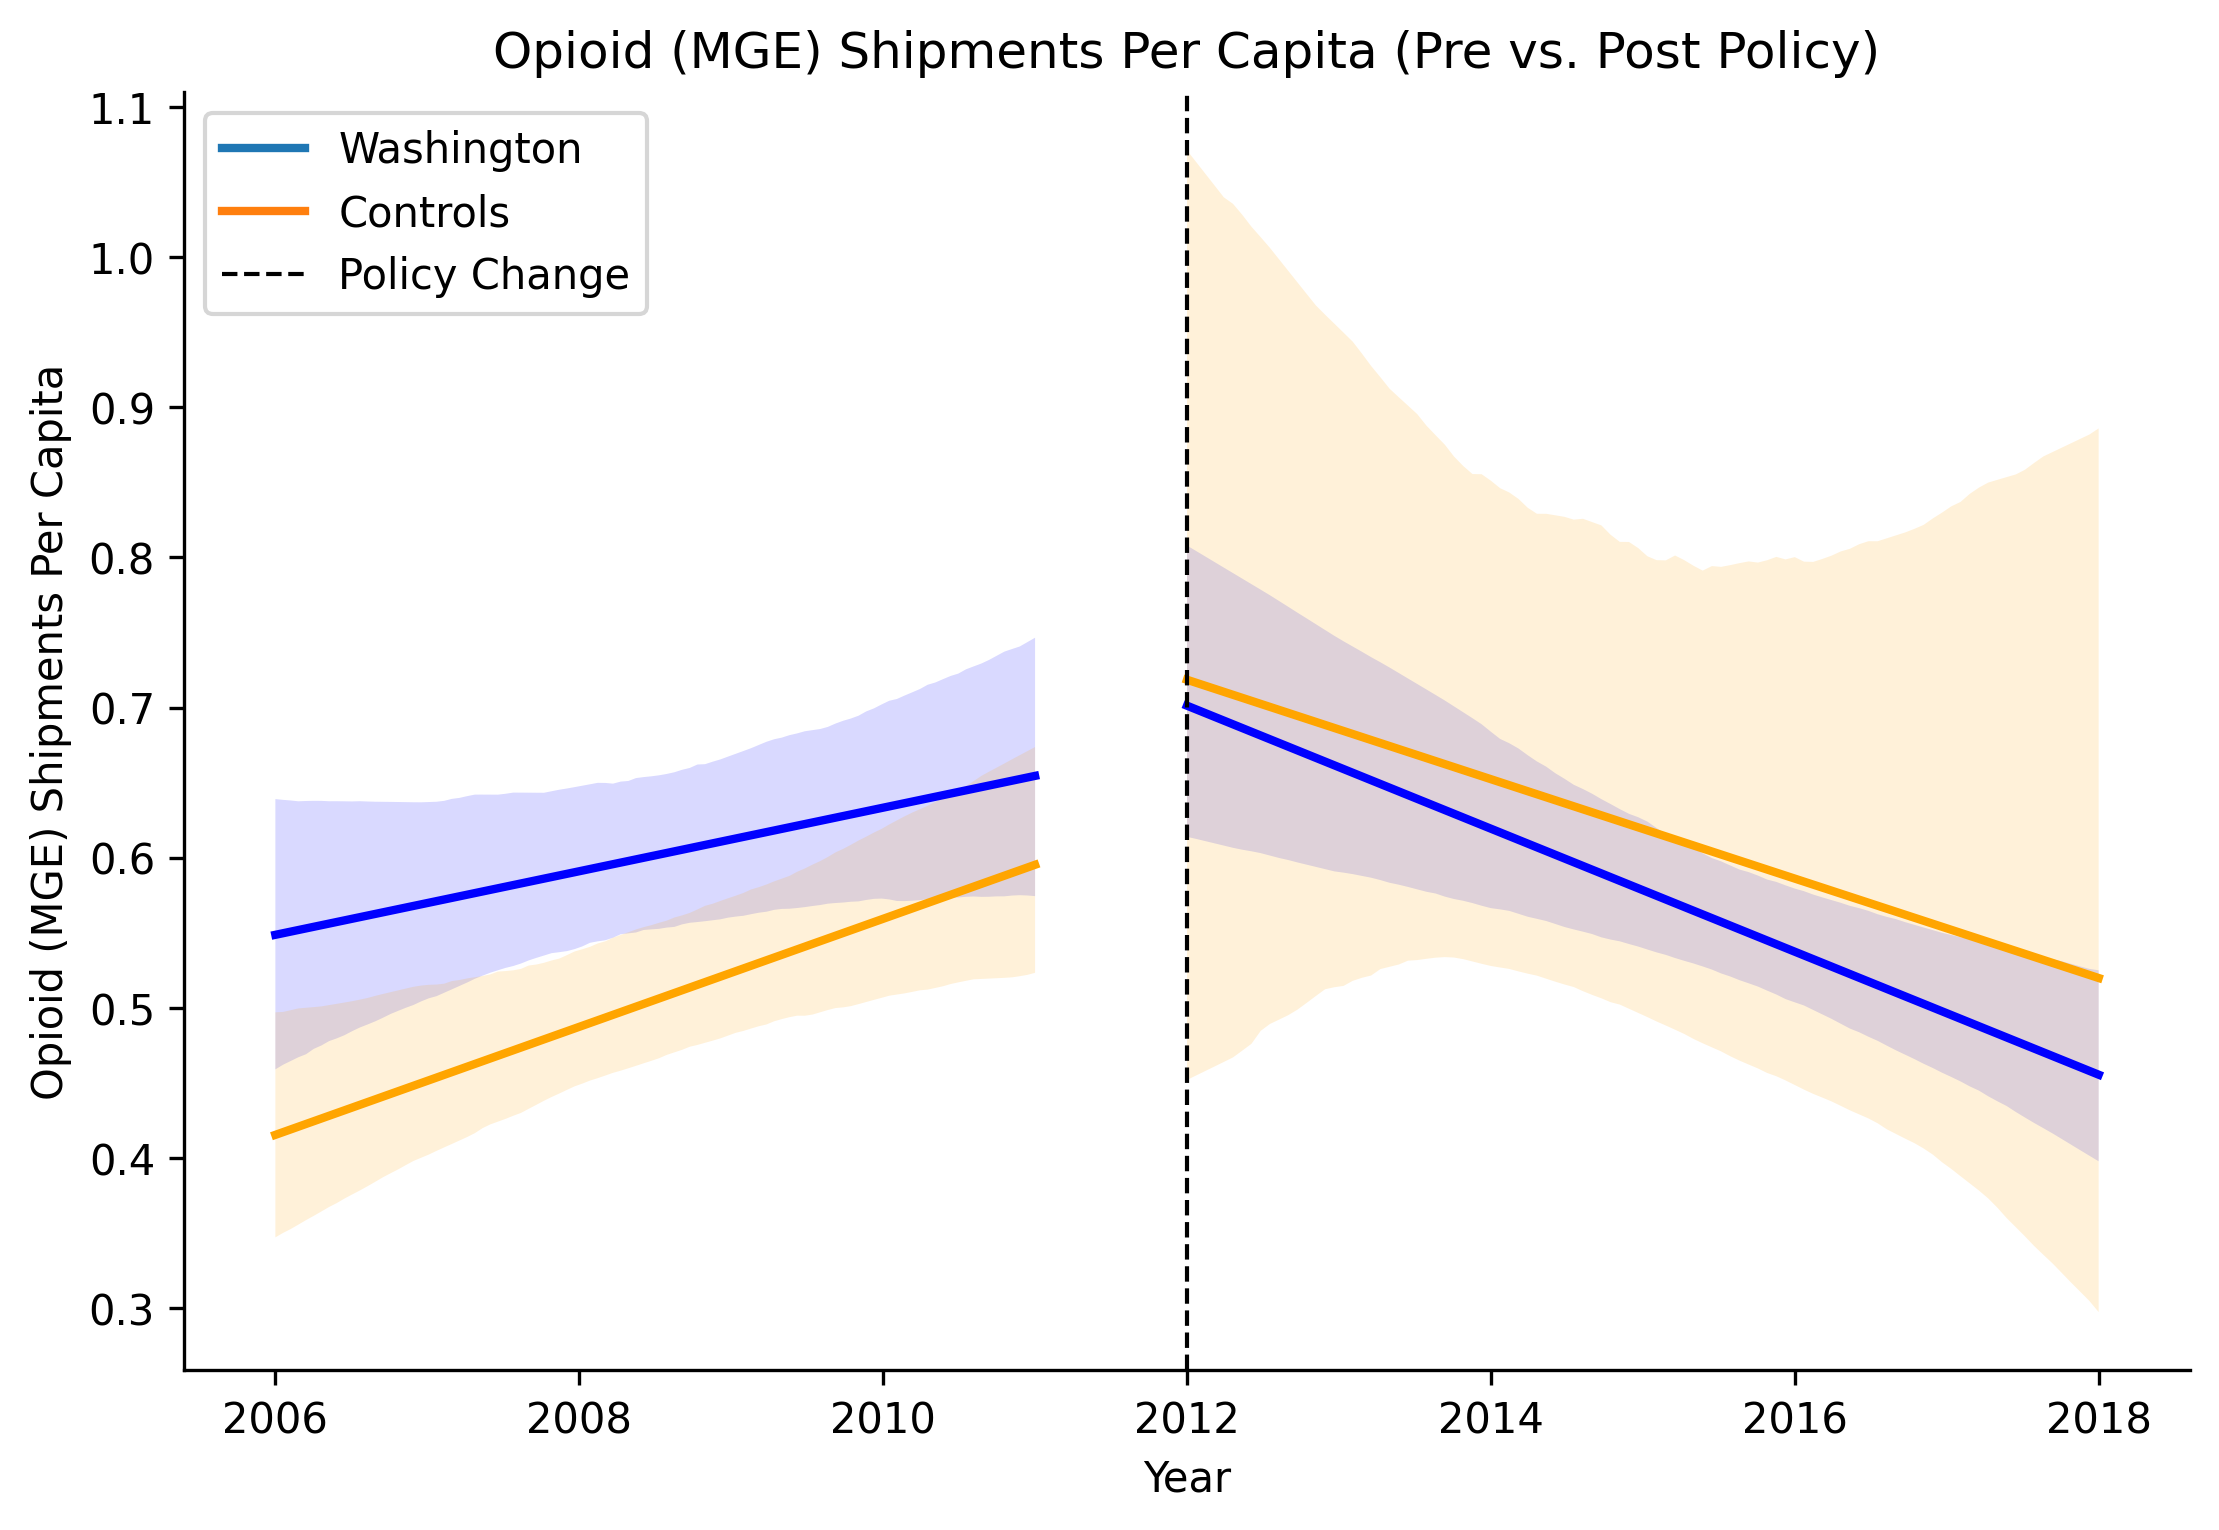
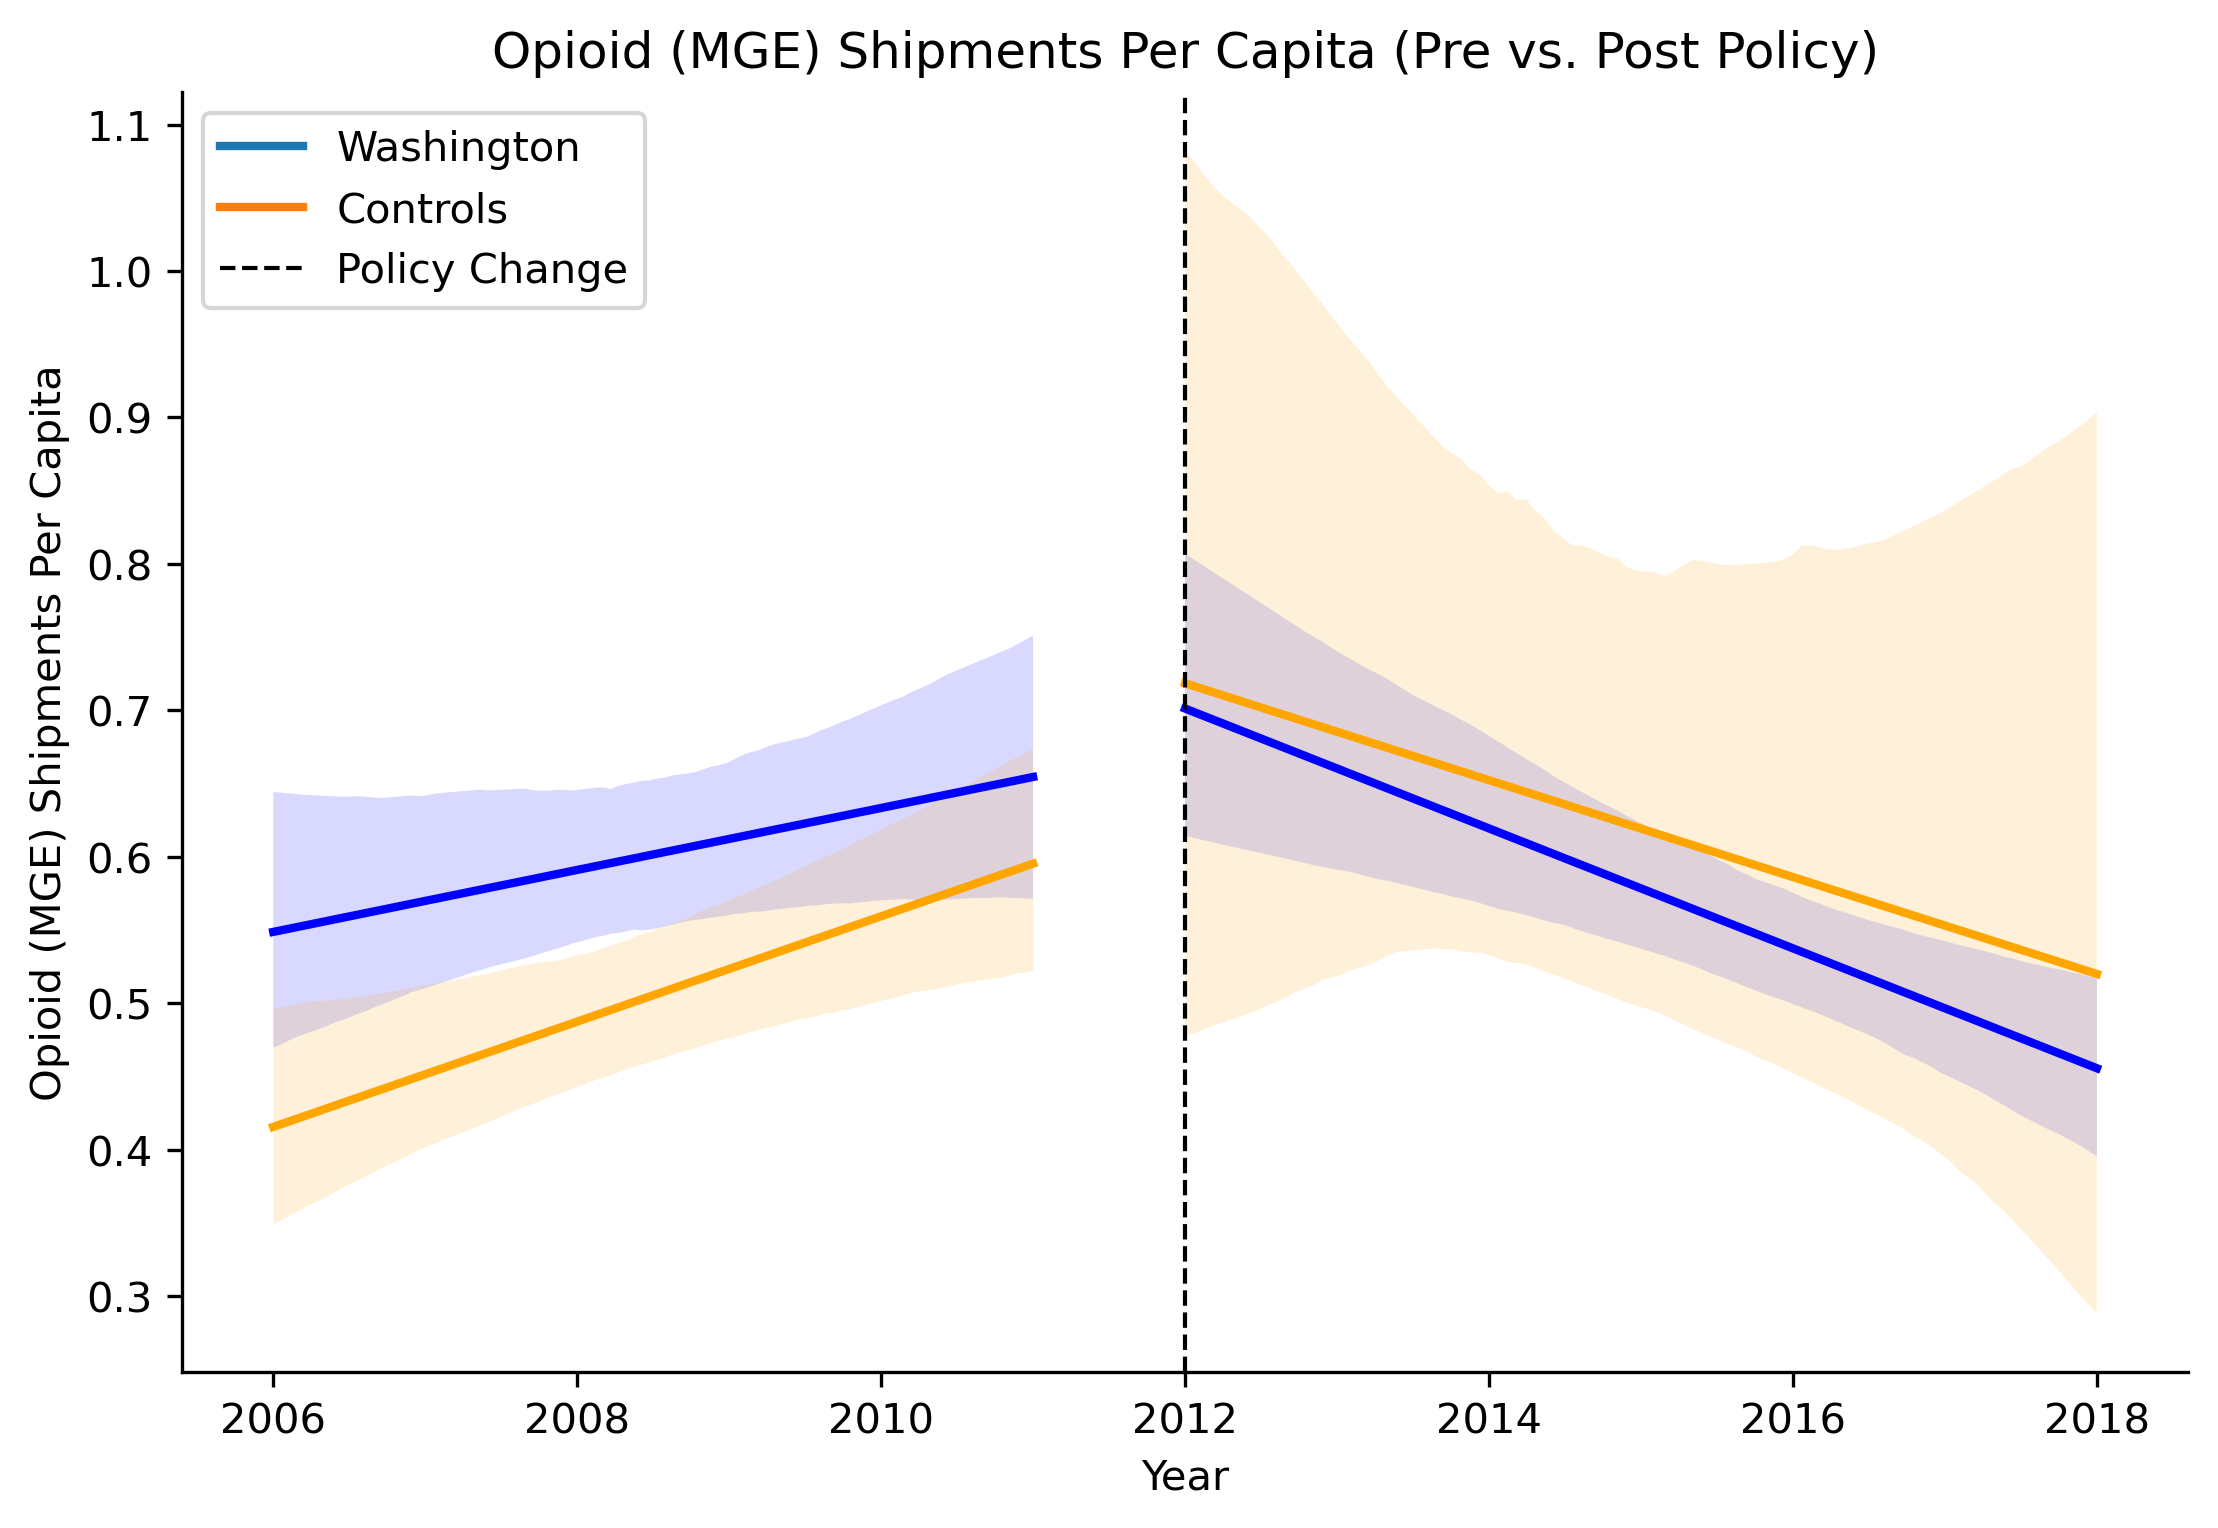
removing outlier counties from florida and changing the control states to AL, SC, and OH

diff --git a/10_code/drugs_analysis.py b/10_code/drugs_analysis.py
@@ -12,6 +12,9 @@ pd.set_option("mode.copy_on_write", True)
 
 fl_drugs_did = pd.read_parquet("20_intermediate_files/fl_controls_prescrip.parquet")
 
+fl_drugs_did = fl_drugs_did[fl_drugs_did["STATE"].isin(["FL", "SC", "AL", "OH"])]
+fl_drugs_did = fl_drugs_did[~fl_drugs_did["COUNTY"].isin(["BROWARD", "HILLSBOROUGH"])]
+
 fl_drugs_did["MMEPC"] = fl_drugs_did["CALC_MME"] / fl_drugs_did["Population"]
 
 fl_drugs_pp = fl_drugs_did[fl_drugs_did["STATE"] == "FL"]

diff --git a/10_code/wa_fl_pre_subset.py b/10_code/wa_fl_pre_subset.py
@@ -140,7 +140,7 @@ wa_controls_prescrip.to_parquet(
     "20_intermediate_files/wa_controls_prescrip.parquet", index=False
 )
 
-fl_states = ["FL", "GA", "SC", "NC", "AL"]
+fl_states = ["FL", "SC", "AL", "OH"]
 fl_controls_prescrip = merged_df[merged_df["STATE"].isin(fl_states)]
 fl_controls_prescrip.to_parquet(
     "20_intermediate_files/fl_controls_prescrip.parquet", index=False
